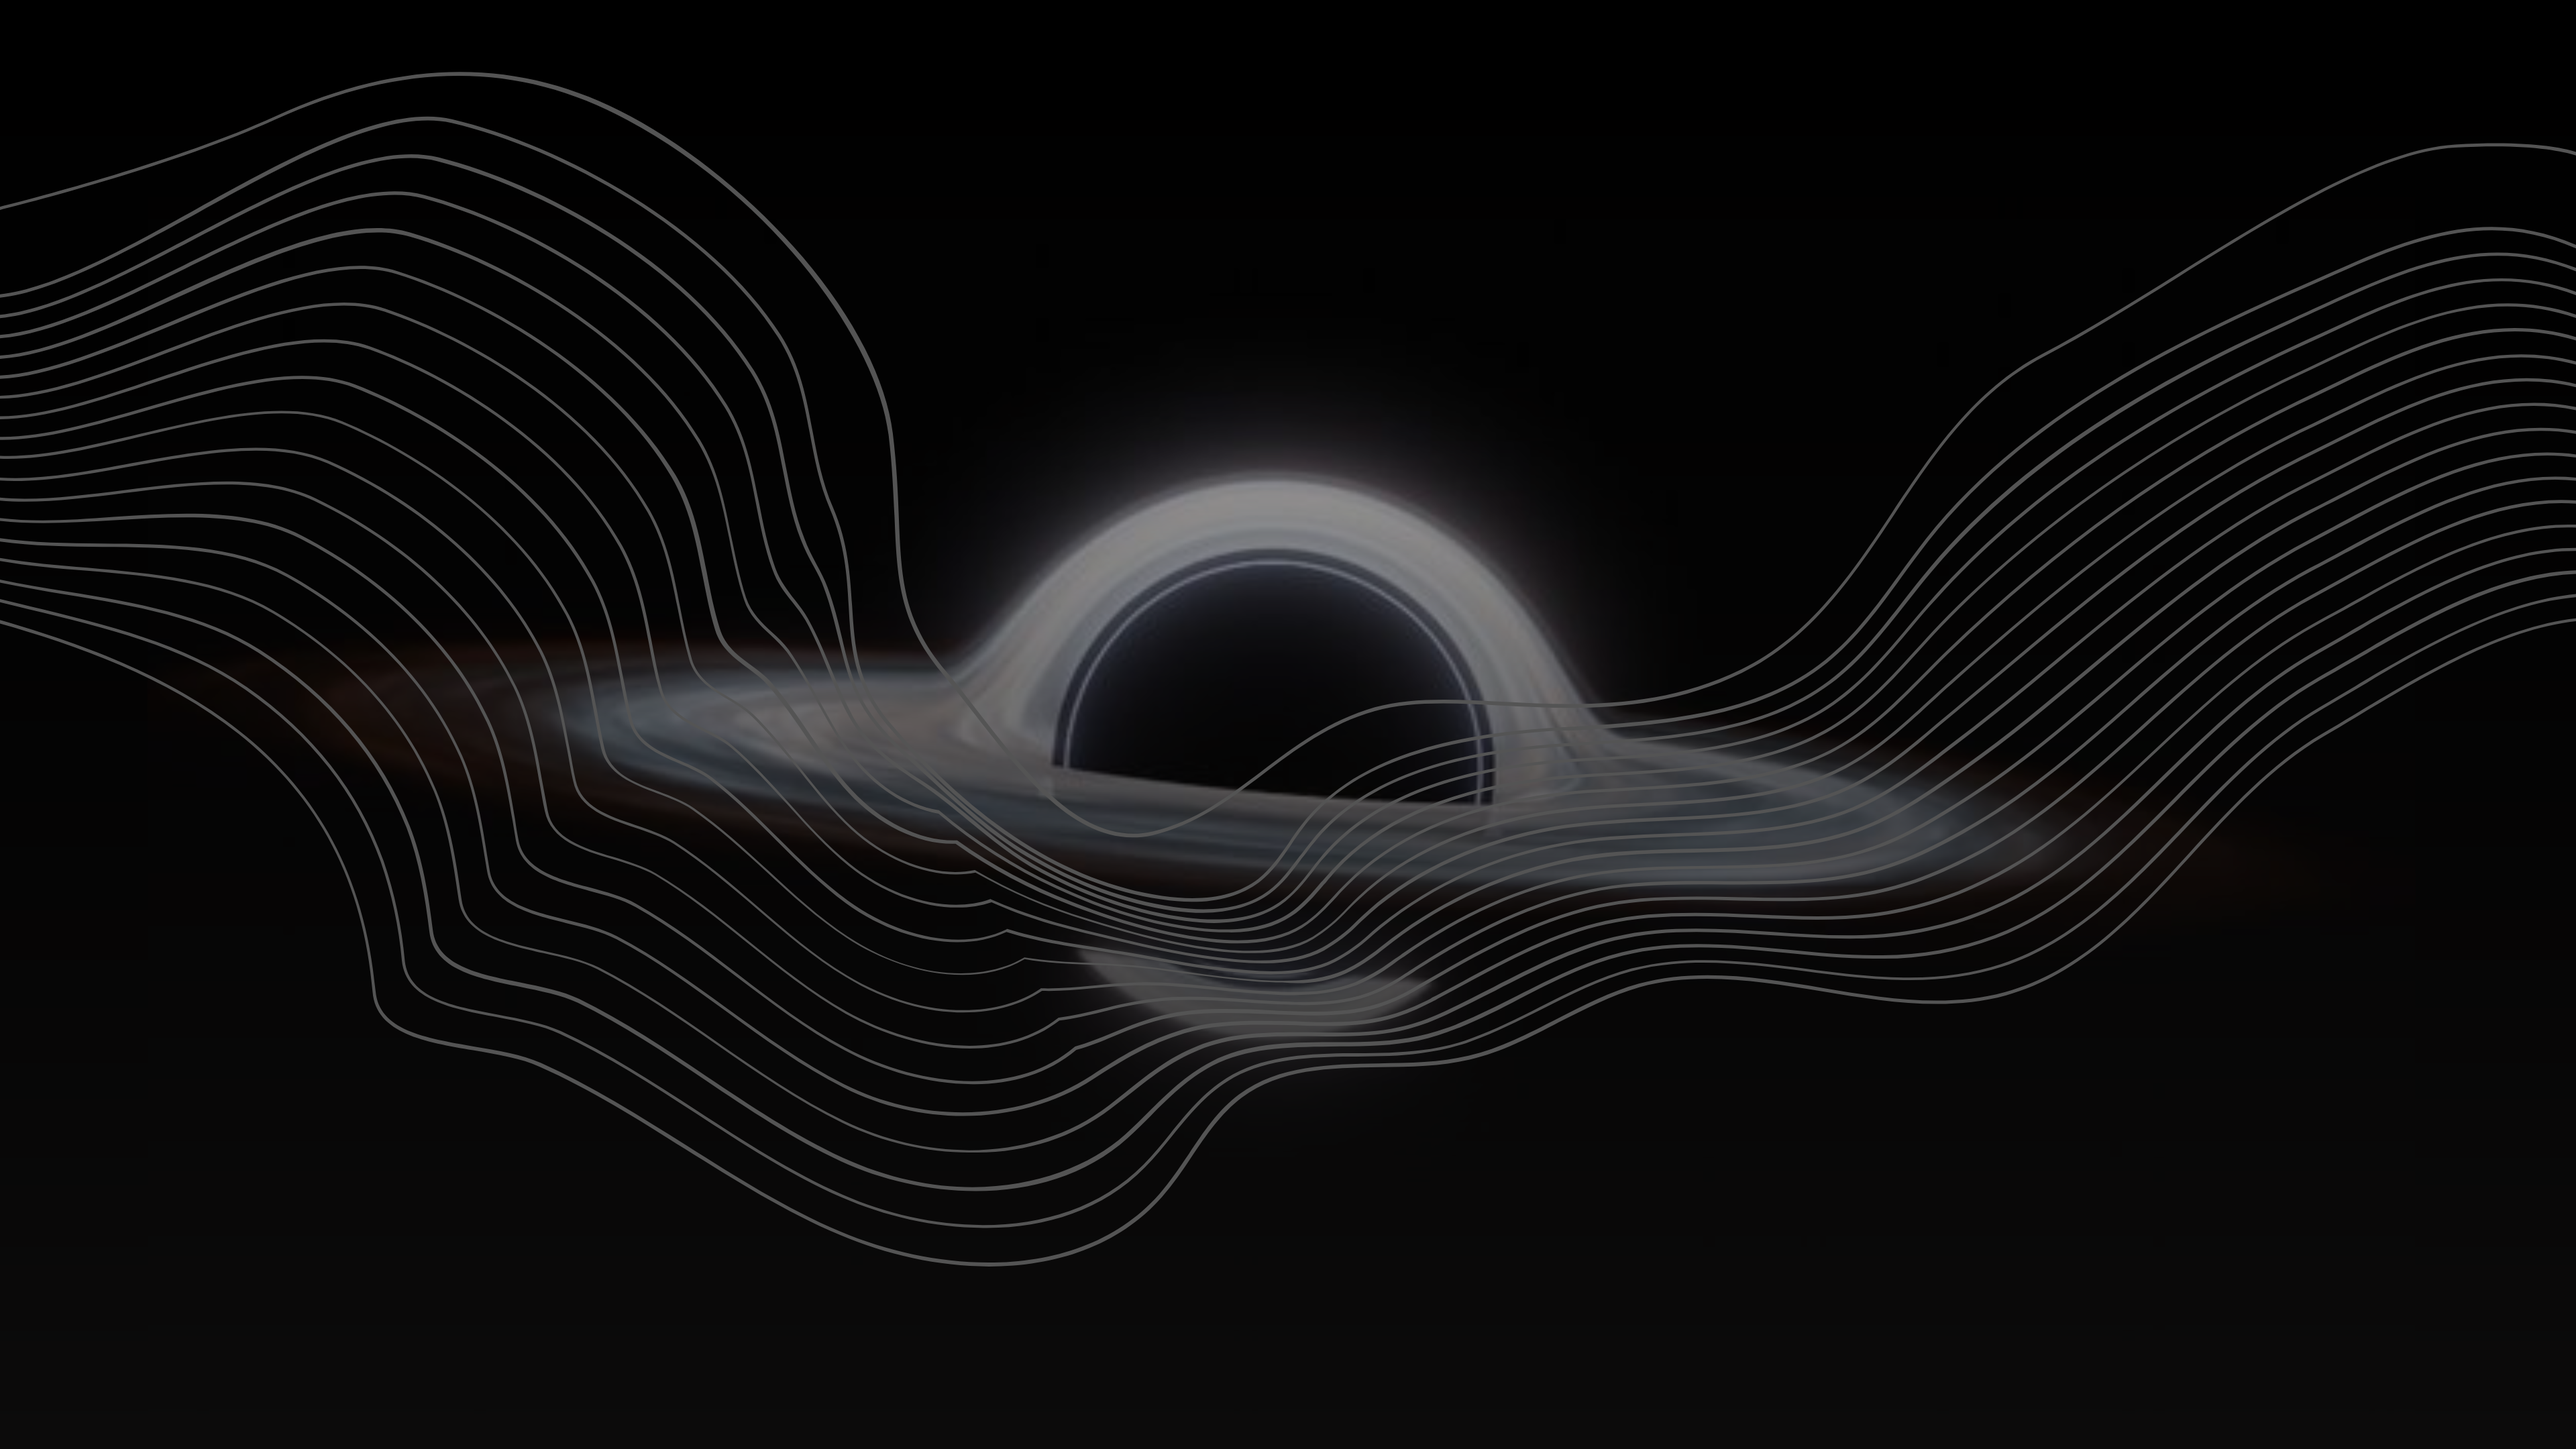
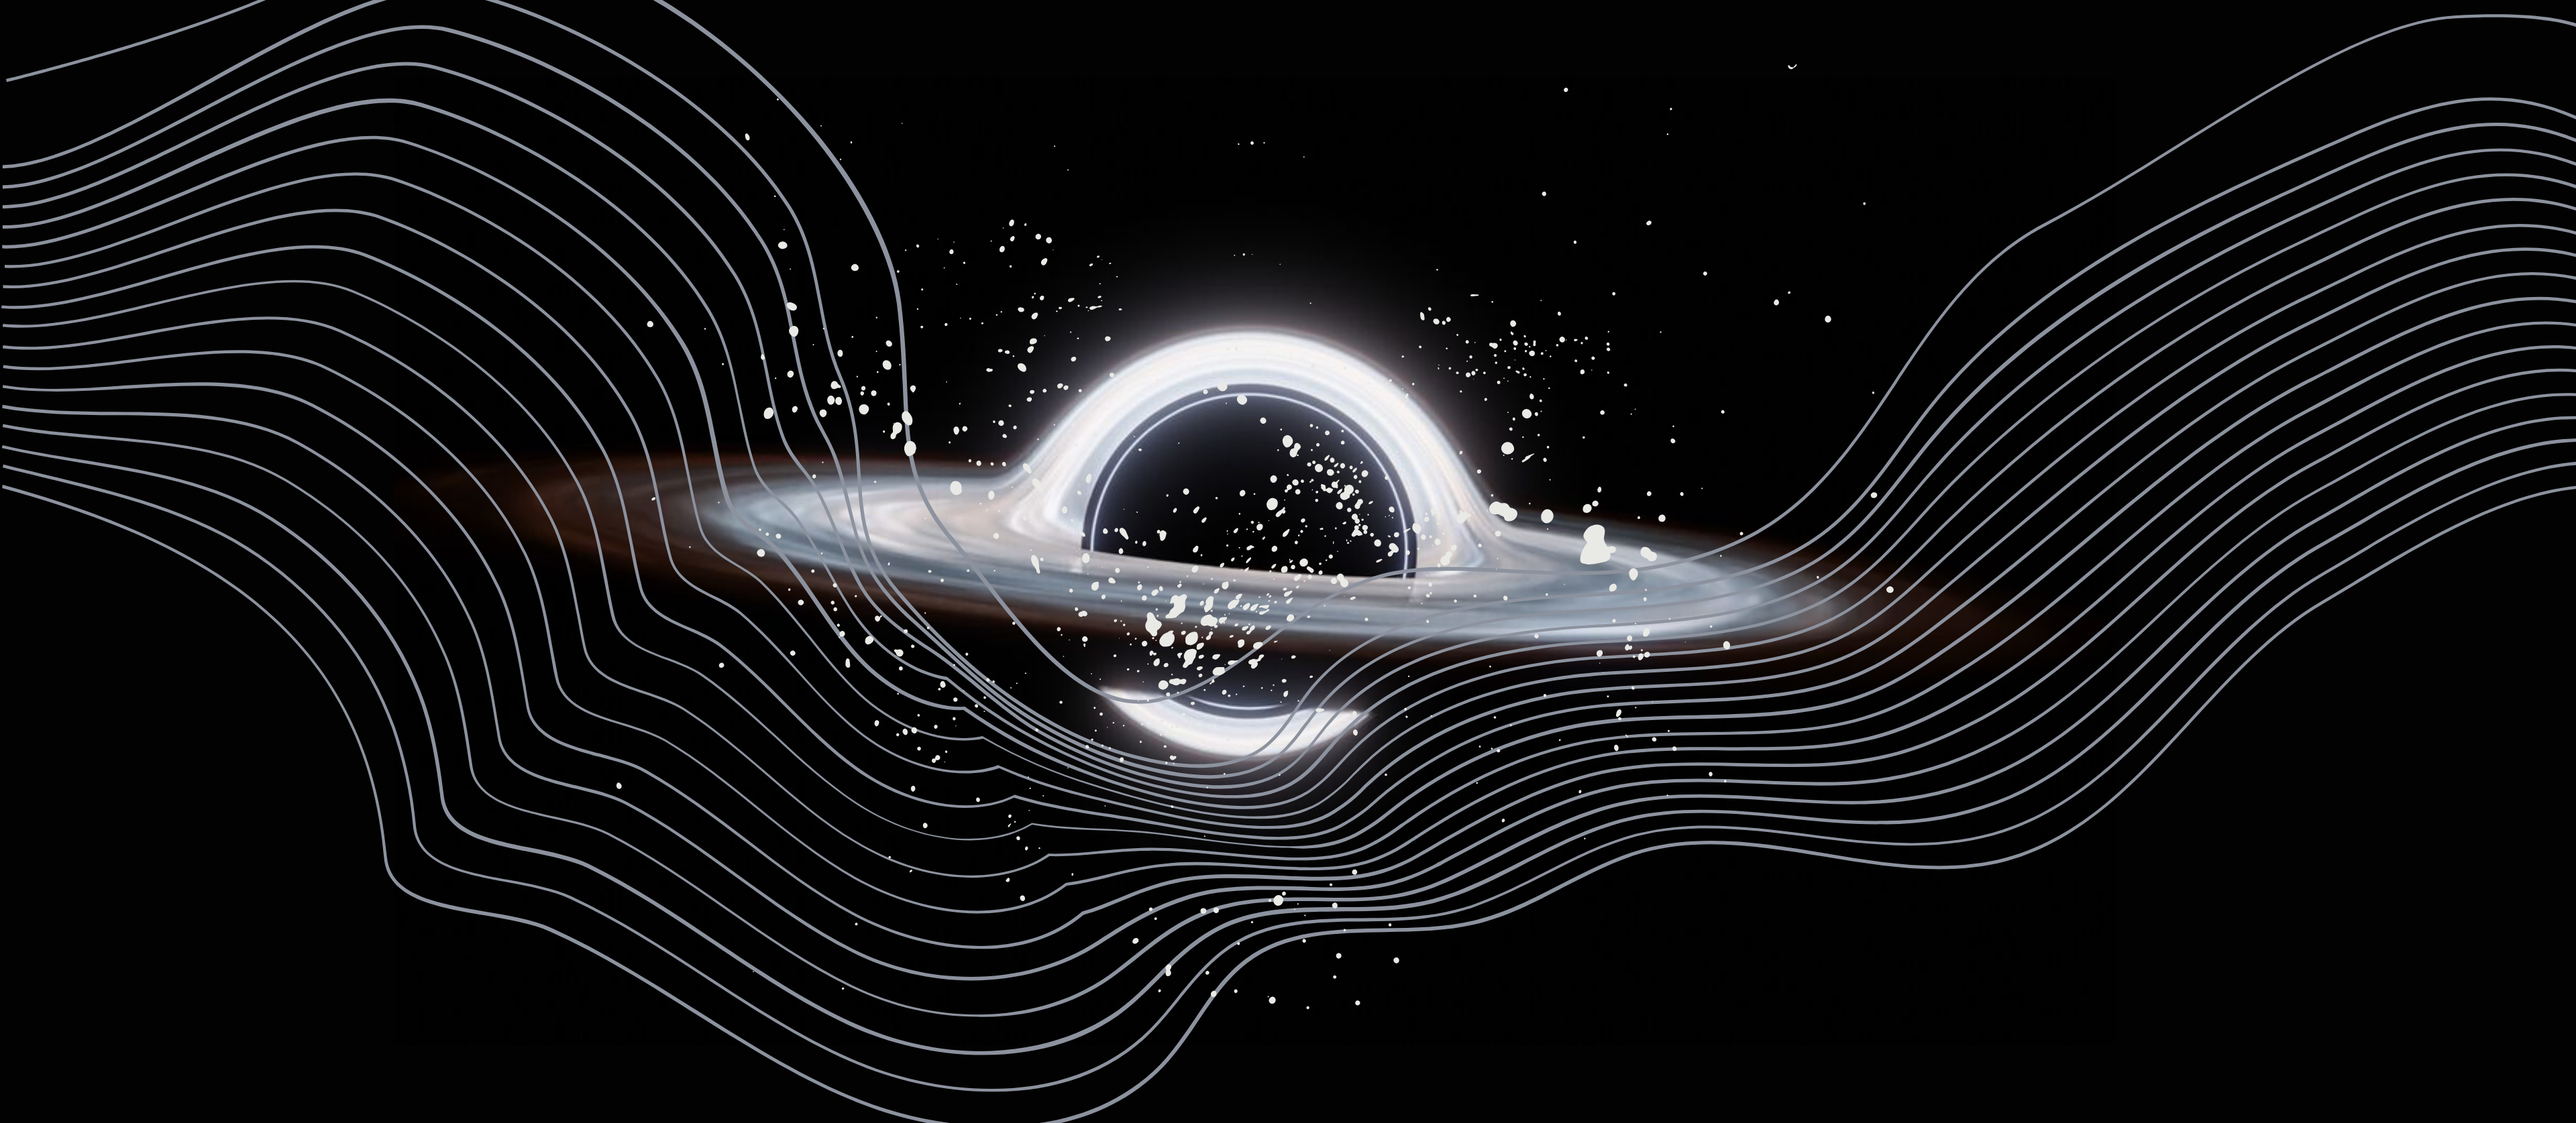
implementação de pequenas mudanças no index

diff --git a/index.html b/index.html
@@ -3,13 +3,16 @@
 <head>
     <meta charset="UTF-8">
     <meta name="viewport" content="width=device-width, initial-scale=1.0">
-    <title>Document</title>
+    <title>Hesko</title>
     <link rel="stylesheet" href="css/header.css">
     <link rel="stylesheet" href="css/style.css">
     <link rel="stylesheet" href="css/footer.css">
     <link rel="preconnect" href="https://fonts.googleapis.com">
     <link rel="preconnect" href="https://fonts.gstatic.com" crossorigin>
     <link href="https://fonts.googleapis.com/css2?family=Open+Sans:ital,wght@0,300..800;1,300..800&display=swap" rel="stylesheet">
+    <link rel="preconnect" href="https://fonts.googleapis.com">
+<link rel="preconnect" href="https://fonts.gstatic.com" crossorigin>
+<link href="https://fonts.googleapis.com/css2?family=Cal+Sans&family=Zalando+Sans+Expanded:ital,wght@0,200..900;1,200..900&display=swap" rel="stylesheet">
 </head>
 <body>
     <header>   
@@ -61,11 +64,44 @@
             </nav>
     </header>
         <article>
-            <img src="img/Background Main.png" alt="foto" class="hole">
+            <img src="img/backgroundMain.png" alt="foto" class="hole">
+            <div class="subtitulo">
+                <p class="apresent">Hesko++</p>
+                <p class="paragrafo">
+                    Lorem ipsum dolor sit amet consectetur adipisicing elit. Libero nemo minus, nobis, aliquid vero temporibus quaerat voluptas saepe reiciendis, ullam pariatur laboriosam consectetur vitae numquam assumenda inventore error impedit quos.
+                    Lorem, ipsum dolor sit amet consectetur adipisicing elit. Aliquid aut cumque ea cum. Perspiciatis voluptates deserunt dolore neque vitae amet ea nemo? Reiciendis, error beatae voluptatibus sequi ex ipsam neque.
+                </p>
+            </div>
         </article>
         <div class="conteiner">
             <main>
-
+                <div class="col">
+                    <img src="" alt="" class="foto-um">
+                    <div class="blur">
+                        <p class="titulo-conteiner">
+                            Porque somos a empresa certa para esse serviço?
+                        </p>
+                    </div>
+                </div>
+                <div class="col" class="foto-dois">
+                    <div class="blur">
+                        <p class="titulo-conteiner">
+                            Nós somos a Hesko, venha nos conher mais
+                        </p>  
+                    </div>
+                </div>
+                <div class="col" class="foto-tres">
+                    <div class="blur">
+                        <p class="titulo-conteiner">
+                            O que fazemos ? <br> e o Por que ?
+                        </p>
+                    </div>
+                </div>
+                <div class="col-grande">
+                    <p class="titulo-continer-grande">
+                        Lorem ipsum dolor sit amet consectetur adipisicing elit. Possimus sapiente tempore doloremque numquam alias recusandae quis accusamus?
+                    </p>
+                </div>
             </main>
             <section>
                 
@@ -73,25 +109,25 @@
         </div>
     <footer>
         <div class="espaco"></div>
-        <div class="col">
+        <div class="col-footer">
             <h1>Suporte</h1>
             <div class="meio">
                 Lorem ipsum, dolor sit amet consectetur adipisicing elit. Eius voluptatum doloremque nulla corrupti. Aperiam, quidem architecto! Fuga vel recusandae unde sunt reprehenderit animi, reiciendis quia corrupti labore? Autem, nemo eos.   
             </div>
         </div>
-        <div class="col">
+        <div class="col-footer">
             <h1>Redes Sociais</h1>
             <div class="meio">
         Lorem ipsum dolor sit amet consectetur adipisicing elit. At illo blanditiis ipsa maxime vitae magni nemo? Perspiciatis obcaecati dicta ratione praesentium dolorem. Nulla optio ut recusandae voluptatem similique ullam? Aliquam?
             </div>
         </div>
-        <div class="col">
+        <div class="col-footer">
             <h1>Feedback</h1>
             <div class="meio">
         Lorem ipsum dolor sit amet consectetur adipisicing elit. At illo blanditiis ipsa maxime vitae magni nemo? Perspiciatis obcaecati dicta ratione praesentium dolorem. Nulla optio ut recusandae voluptatem similique ullam? Aliquam?
             </div>
         </div>
-        <div class="col">
+        <div class="col-footer">
             <h1>Politica de Privacidade</h1>
             <div class="meio">
                 Lorem ipsum dolor sit amet consectetur adipisicing elit. At illo blanditiis ipsa maxime vitae magni nemo? Perspiciatis obcaecati dicta ratione praesentium dolorem. Nulla optio ut recusandae voluptatem similique ullam? Aliquam?

diff --git a/css/style.css b/css/style.css
@@ -20,27 +20,102 @@ body{
 }
 
 article{
-   width: 100%;
-   height: auto;
-   position: relative;
-   z-index: 10;
-  
+    width: 100%;
+    height: auto;
+    position: relative;
+    z-index: 10;
+    display: flex;
+    justify-content: center;
+    position: relative;
 }
 .hole{
     width: 100%;
-    height: 754px
+    height:auto;
+    filter: blur(1px);
+}
+.subtitulo{
+    position: absolute;
+    top: 38%;
+    left: 0%;
+}
+.apresent{
+    font-size: 12rem;
+    font-family: "Cal Sans", sans-serif;
+    color: #fff;
+    
+}
+.paragrafo{
+    max-width: 800px;
+    font-size: 16px;
+    font-family: "Open Sans", sans-serif;
+    color: #fff;
+   
 }
 .conteiner{
     display: flex;
-    flex-direction: column;
+    flex-direction: row;
     justify-content: center;
     align-items: center ;
+    
 }
 
 main{
-    
+    display: grid;
+    width: 55%;
+    height: 80vh;
+    grid-template-columns: repeat(3,1fr);
+    grid-auto-flow: row;
+    gap: 20px;
+    min-height: 800px;
+}
+.col{
+    margin-top: 5rem;
+    background-color: #1e1e1e;
+    border-radius: 0.3rem;
+    color: white;
+    transition: transform .2s ease-in-out;
     display: flex;
-    width: 90%;
-    height: 40vh;
-    background-color: rgb(94, 92, 92);
+    flex-direction: column;
+    text-align: right;
+    font-size: 30px;
+    font-family: "Cal Sans", sans-serif;
+    justify-content: end;
+}
+.col:hover{
+    transform: translateY(-18px);
+}
+
+.titulo-conteiner{
+    margin-right: 10px;
+}
+.blur{
+    width: 100%;
+    height: 25%;
+    transition: transform .8s ease-in-out;
+}
+.blur:hover{
+    background:linear-gradient( 180deg,#1e1e1e,#0e0d0d, #000);
+
+}
+.col-grande{
+    transition: transform .2s ease-in-out;
+    grid-column: 1 / 4; 
+    background-color: #1e1e1e;
+    display: flex;
+    flex-direction: column;
+    text-align: right;
+    font-size: 30px;
+    font-family: "Cal Sans", sans-serif;
+    justify-content: end;
+    color: white;
+}
+
+.col-grande:hover{
+    border-radius: 0.3rem;
+    transform: translateY(-8px);
+    
+}
+
+.titulo-continer-grande{
+    margin-right: 10px;
 }

diff --git a/css/footer.css b/css/footer.css
@@ -7,8 +7,9 @@ footer{
     color: white;
     flex-direction: row;
     padding: 0.9rem 0rem;
+    margin-top: 1rem;
 }
-.col{
+.col-footer{
     width: 22%;
     height: auto;
     font-family: "Open Sans", sans-serif;
